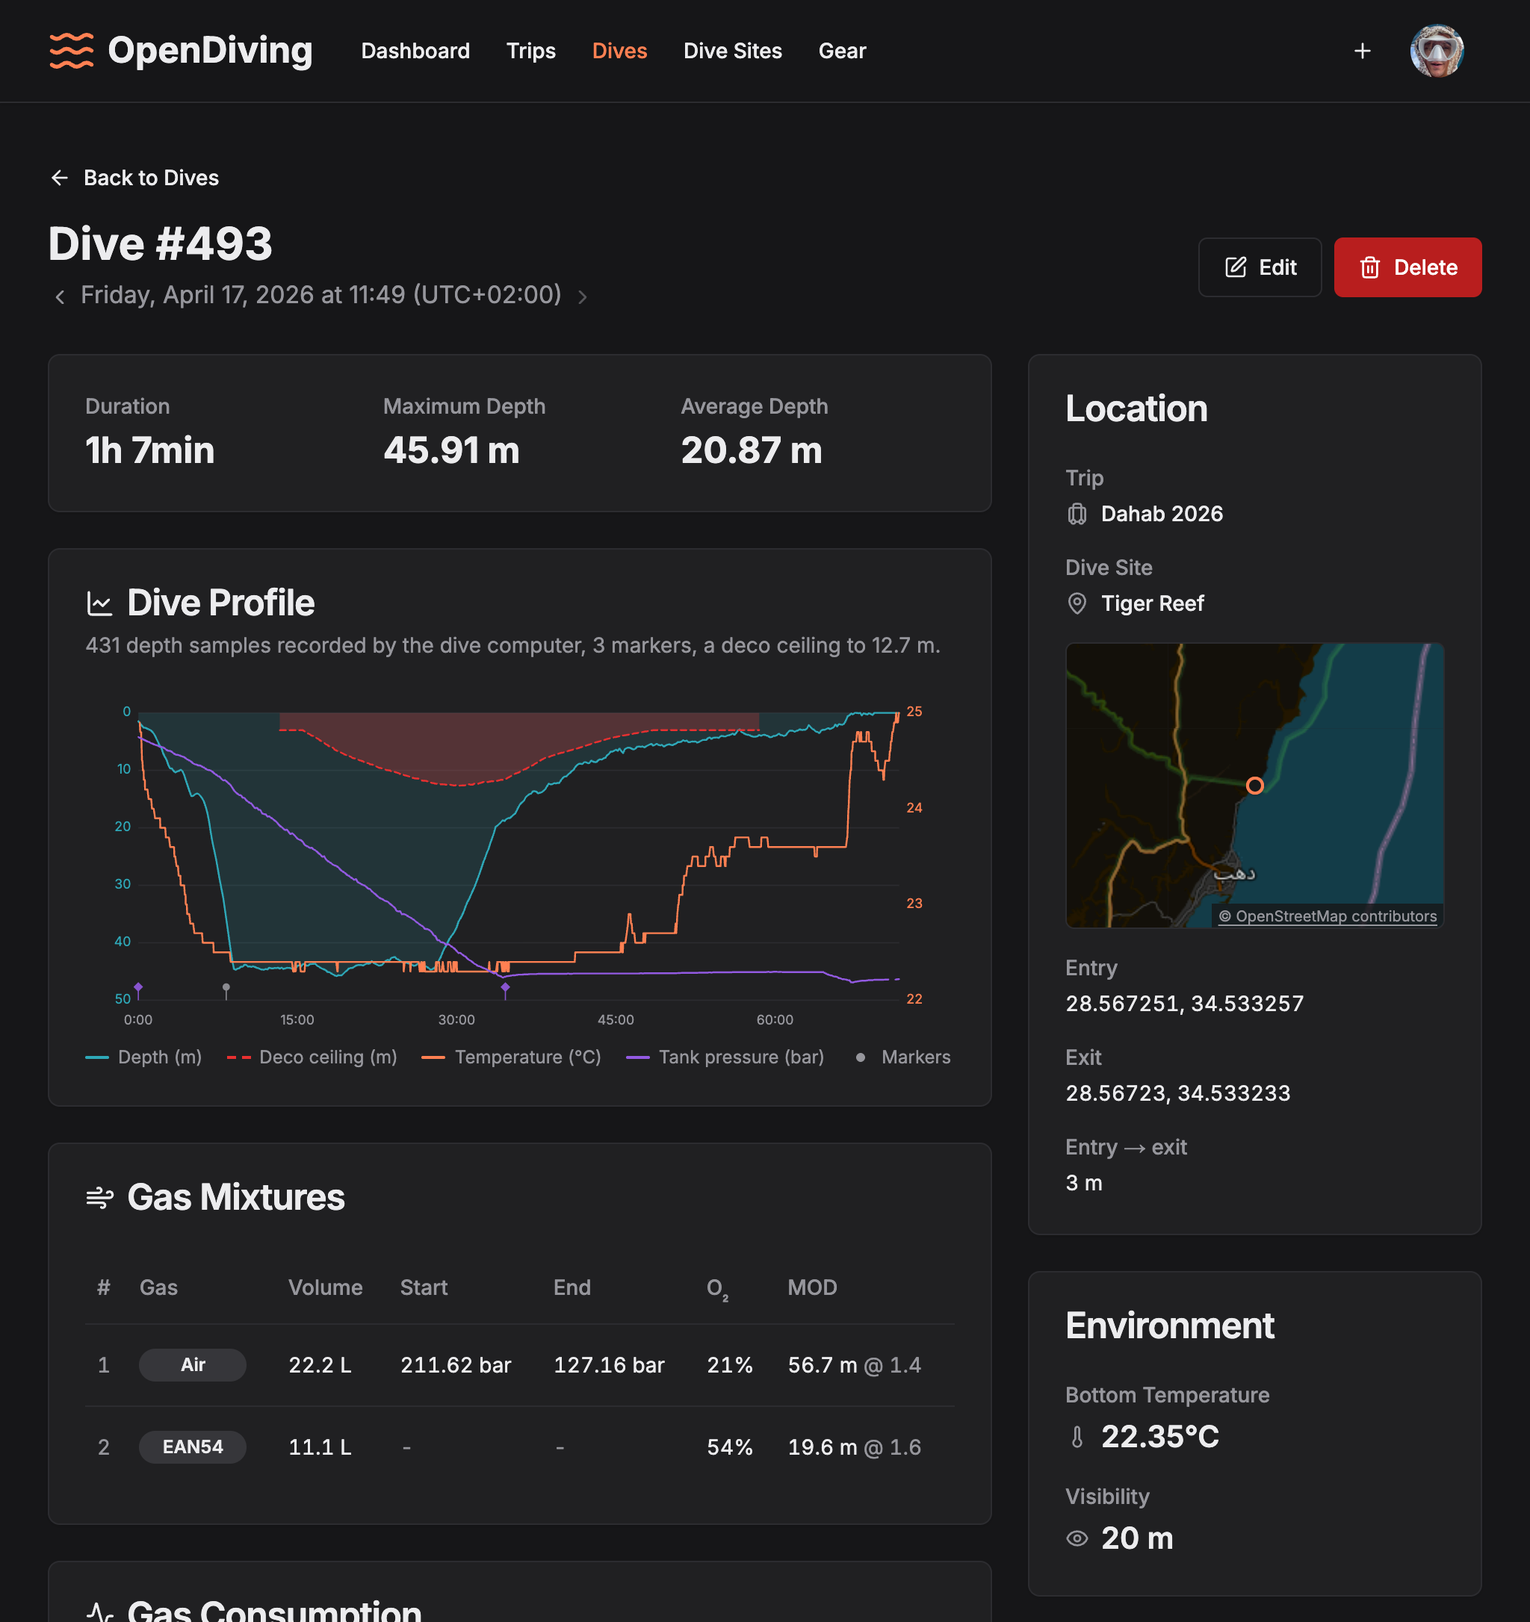
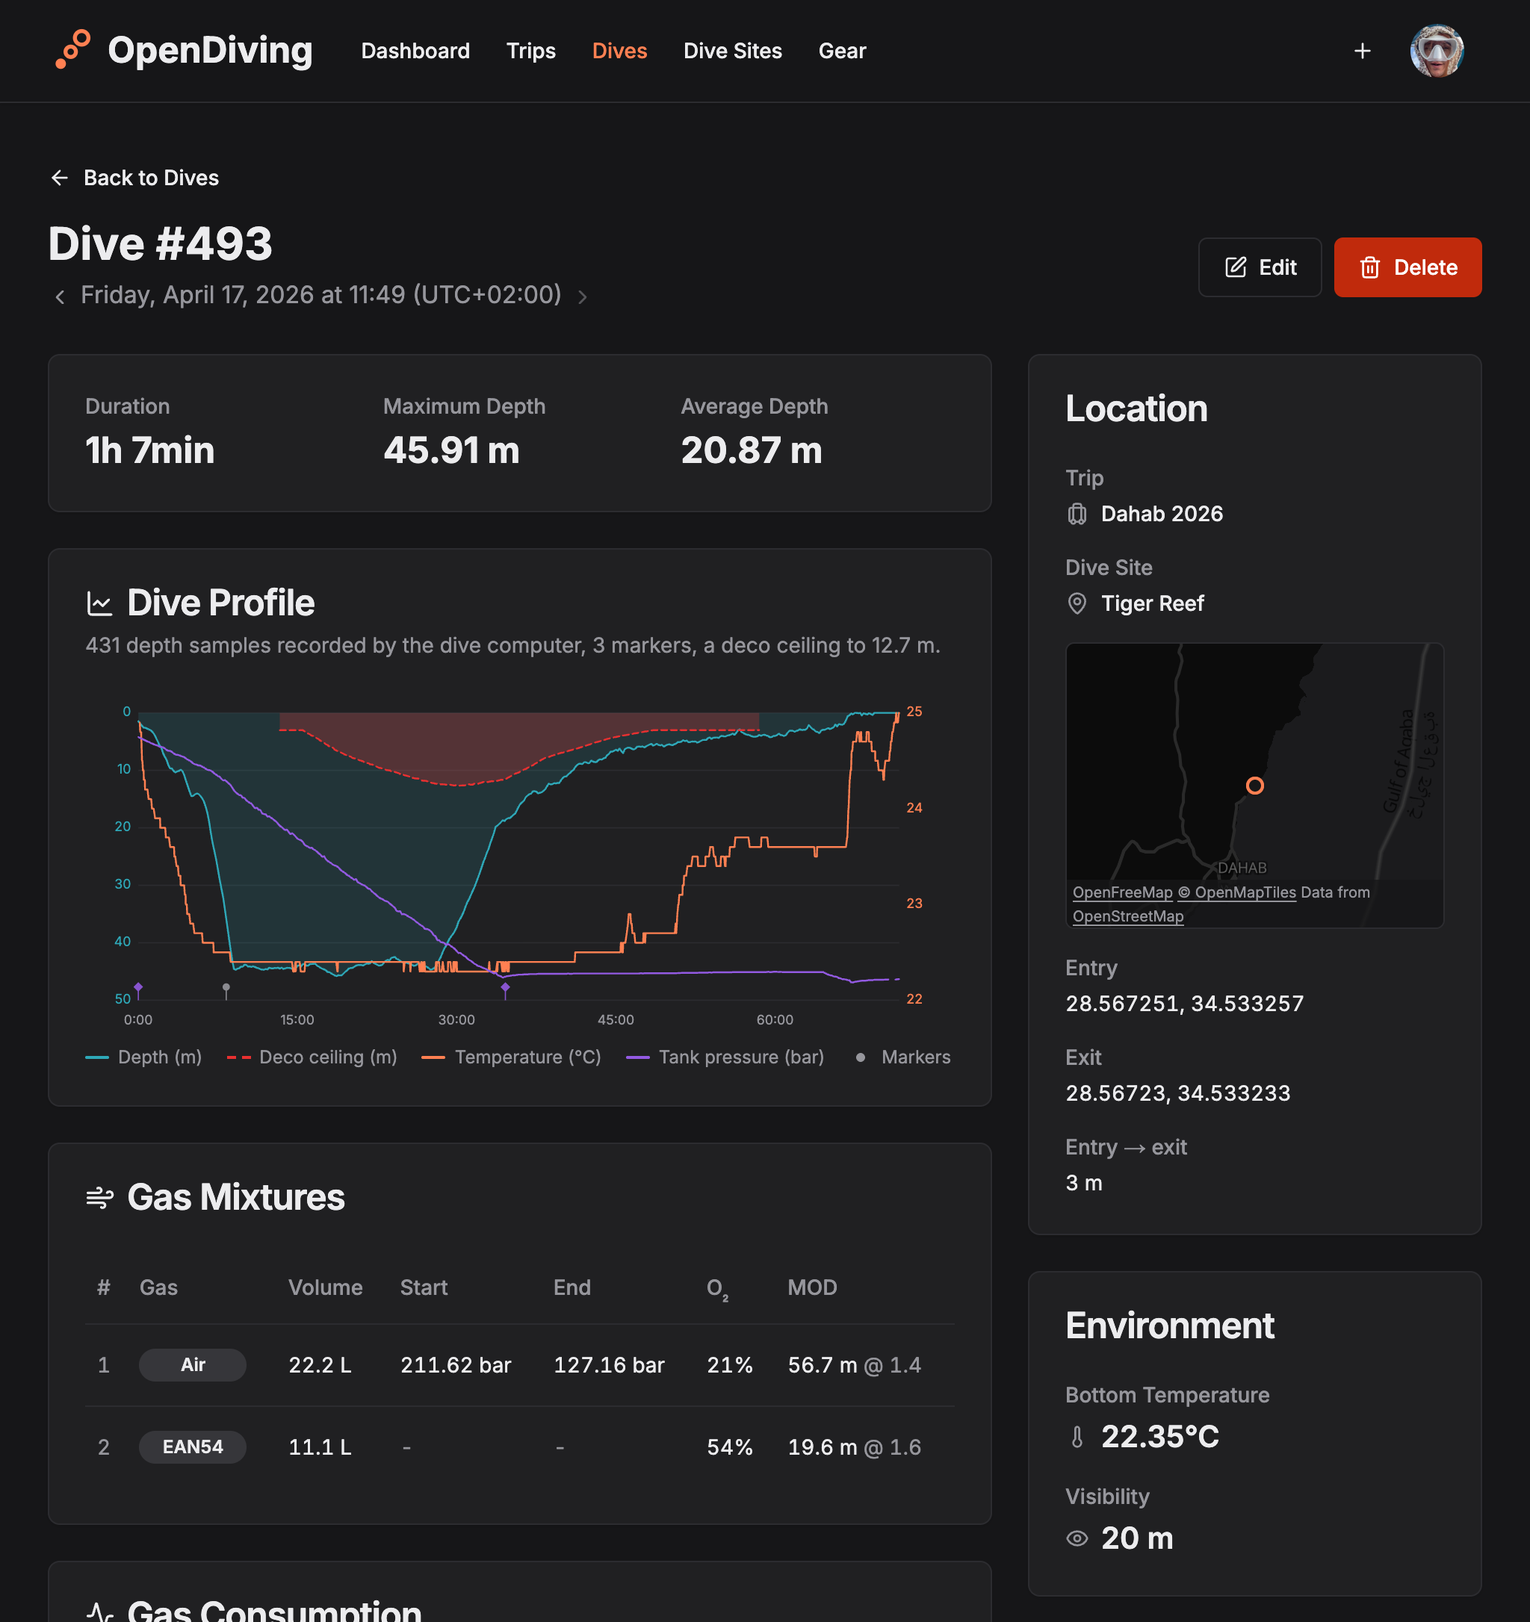
feat(brand): an original mark, and out with the licensed artwork (#148)

Changed region(s): [[0.6875, 0.3702, 0.9688, 0.5861], [0.0312, 0.0, 0.0625, 0.0617]]

diff --git a/src/components/logo.tsx b/src/components/logo.tsx
@@ -1,12 +1,24 @@
 import * as React from "react";
 
 /**
- * The OpenDiving brand mark: matches the original lucide "Waves" icon
- * exactly (same viewBox, paths, and default stroke attributes), just as
- * a self-contained SVG so it doesn't depend on the lucide-react package.
- * Drawn with `currentColor`, so it drops in anywhere an icon would (e.g.
- * `<Logo className="h-8 w-8 text-coral" />`) and follows the active
- * theme's color automatically.
+ * The OpenDiving brand mark: three bubbles rising left to right, growing as
+ * they go, the way real ones do as the pressure drops. Original artwork drawn
+ * for this project - it replaced a copy of lucide's `waves-horizontal` icon,
+ * which credited nobody and, being a stock icon a dozen other dive apps also
+ * reach for, was not a mark this project could ever have claimed as its own
+ * (see `DECISIONS.md`). Nothing here is third-party, so `NOTICE.md` has no
+ * entry for it.
+ *
+ * Drawn in the same language as the lucide icons it sits beside - 24x24 box,
+ * 2px stroke, round caps - so it reads as part of the same set. `currentColor`
+ * means it drops in anywhere an icon would (e.g.
+ * `<Logo className="h-8 w-8 text-coral" />`) and follows the active theme.
+ * The smallest bubble is filled rather than hollow. Its hole was the first
+ * thing to close up as the mark got smaller, so it read as a solid dot at
+ * favicon sizes and a ring everywhere else; filling it deliberately makes the
+ * mark the same shape at every size. The fill sits inside the stroke, so the
+ * silhouette is unchanged. `src/app/icon.svg` is the same three circles at a
+ * heavier stroke, which is what keeps that bubble crisp at 16px.
  */
 export function Logo({ className, ...props }: React.SVGProps<SVGSVGElement>) {
   return (
@@ -22,9 +34,9 @@ export function Logo({ className, ...props }: React.SVGProps<SVGSVGElement>) {
       className={className}
       {...props}
     >
-      <path d="M2 12q2.5 2 5 0t5 0 5 0 5 0" />
-      <path d="M2 19q2.5 2 5 0t5 0 5 0 5 0" />
-      <path d="M2 5q2.5 2 5 0t5 0 5 0 5 0" />
+      <circle cx="6.5" cy="18.5" r="1.6" fill="currentColor" />
+      <circle cx="11.5" cy="12.5" r="2.6" />
+      <circle cx="17" cy="5.5" r="3.4" />
     </svg>
   );
 }

diff --git a/DECISIONS.md b/DECISIONS.md
@@ -3183,9 +3183,17 @@ for everything, and no reason to special-case the hero on that axis.
 **Height is per page, and the cut lands on a card boundary rather than a round figure.** Cutting at
 the _end_ of a card matters more than the exact number, and more than the three shots agreeing: a
 frame that stops just shy of finishing a card reads as an off-by-one, while one that stops well
-inside a card the reader can see continues reads as a page that goes on. 1086 is where the dive
-page's profile chart finishes - it also clears the sidebar column beside it - and where the gear
-page's service history does.
+inside a card the reader can see continues reads as a page that goes on. 1086 clears the dive page's
+profile chart and the sidebar column beside it, and ends the gear page below its service history.
+
+**It does not, however, land on a boundary on the dive page, and that sentence used to claim it
+did.** The frame runs past the profile card and stops part-way through the glyphs of the _Gas
+Consumption_ heading below it - true on `main` as much as on any branch, and checked by decoding
+both PNGs rather than by eye. The wrong claim cost a review round: a reviewer read it, compared it
+to the image, and reported a regression that a validator then refuted, because the clipping was
+never a regression at all. The real fix, if the edge is ever worth tidying, is a `CUT_BELOW` entry
+for `dive-detail` naming the profile card - the mechanism `dashboard` already uses - and never
+another hand-measured number.
 
 **The dashboard measures its own cut, because a written-down height goes stale quietly.** It was on
 1086 too, back when consumption was its only chart and that was where the card ended. Dive activity
@@ -13085,3 +13093,144 @@ and the measurement silently described inherited colours. **A runtime probe can 
 strings copied verbatim out of the component**, and a variant-prefixed class is a different string
 from its bare form. Where the state cannot be forced — a `:hover` colour — read the generated rule
 out of the served stylesheet instead, which is also the only way to confirm a class compiled at all.
+
+## The brand mark is original now, and marketplace artwork cannot ship here
+
+`components/logo.tsx` and `app/icon.svg` used to draw lucide's `waves-horizontal` icon
+path-for-path. Two things were wrong with that, and only one of them was the licence.
+
+The licence half was straightforward. Lucide is ISC, whose single condition is that its copyright
+notice appears in copies, and the hand-copied paths were not carrying it: nothing in the tree named
+lucide outside `package.json` and `node_modules/`. That was fixable with a notice, and briefly was.
+
+**The half that mattered more is that a stock icon cannot be a mark.** It is not distinctive, so it
+is not registrable; it cannot be exclusive, because every other dive app reaching for a water icon
+lands on the same three wavy lines; and it smears at favicon size, three 2.5px strokes at 16px
+resolving to a grey blur. None of that is a licence problem and no notice fixes any of it. The mark
+is now three bubbles rising left to right, growing as they climb, drawn for this project — which
+costs a `NOTICE.md` entry, gains something ownable, and stays legible at 16px because the smallest
+bubble goes solid rather than mushy at the favicon's heavier stroke.
+
+**Marketplace artwork cannot ship in this repository, and the reason generalises past the one asset
+that proved it.** `icons/coral-reef-background.tsx` was 14 KB of reef line art on the landing hero,
+and `public/coral.png` a neon-glow rendering of the same drawing, unreferenced but still served out
+of `public/`. A third, `public/octo.png`, an octopus in the same glow treatment, landed in that same
+commit and was deleted again in `056c34c` — so it is out of the tree but still in history, and it
+belongs on any purge list the other two are on. Neither PNG was ever referenced from source:
+`git log -S` over `src/` returns nothing for either, so both were dead weight from the day they
+arrived. Both came from a paid Etsy listing whose terms permit "personal projects and small-business
+physical products" and forbid "sharing, reselling or redistributing the digital files themselves". A
+hosted web app is not a physical product, and this repository — AGPL-3.0, and public at launch —
+publishes the vector source in editable form to anyone who clones it, which is the redistribution
+the licence names. Buying it did not buy either of those. Both files are gone, and the hero renders
+without a background accent.
+
+**The screenshots are clean, and the check is worth recording so nobody repeats it.** Nine images
+had ever been committed here when this was written, across all of history: `docs/screenshots/`'s
+`dashboard.png`, `dive-detail.png` and `gear-item.png`; the two basemap sprite sheets
+`public/basemap/sprite/ofm.png` and `ofm@2x.png`; `public/coral.png` and `public/octo.png`; and the
+brand mark's own `src/app/icon.svg` and `src/app/favicon.ico`. All three screenshots are of
+authenticated pages — `scripts/screenshots.mjs` shoots dashboard, dive-detail and gear-item and
+nothing else. The reef rendered on the _landing_ hero, which no screenshot captures, and the two
+glow PNGs rendered nowhere at all. The older screenshots do carry the previous waves mark, but that
+was lucide under ISC, which permits redistribution.
+
+**Seven of those nine remain.** `coral.png` and `octo.png` went out of the history itself in the
+purge below, so a clone now reaches the three screenshots, the two basemap sprite sheets, `icon.svg`
+and `favicon.ico`, and nothing else.
+
+**Getting that list right took three tries, and each wrong answer came from the tool rather than the
+tree.** A first sweep globbed `png|jpe?g|webp|gif` and so silently dropped `favicon.ico` and
+`icon.svg` — an extension list is a completeness claim, and that one was short by two formats. A
+second counted "three basemap sprites" from a directory holding four files, only two of them images;
+the rest are JSON manifests. And `git log --all` walks `refs/stash`, so a local stash on one machine
+contributed five `docs/screenshots/*.png` that were never committed to any branch —
+`--branches --tags --remotes` is the spelling that answers "what would a clone see". A completeness
+claim inside a licensing audit is the one kind of prose here that gets relied on instead of
+re-derived, so it is worth the third try.
+
+The general rule the trio leaves behind: **artwork that arrives under someone else's terms cannot
+live in this tree at all.** Not with a notice, not with attribution, not behind a comment recording
+where it came from — the tree itself is what gets published, so anything in it is redistributed by
+definition, and a stock licence that allows use in a product almost never allows that. Two of the
+three entries left in `NOTICE.md` survive precisely because their terms do allow it: MapLibre's
+3-Clause BSD, and a trademark used under Google's own branding guidelines. The third, the
+OpenFreeMap styles, is the one still open — the vendored copies carry no licence metadata at all, so
+nobody here has read the terms they travel under, and that is worth settling before the repository
+goes public.
+
+**Provenance has to be recorded when the artwork lands, because it cannot be recovered later.** The
+reef component's docstring said "Path data unmodified from the source artwork" and named no source;
+its only commit was `feat: Authentication flow update (#6)` — then `98c72af`, a hash the purge below
+has since made unreachable; the same change is `06c19b1` on `main` today and no longer carries the
+artwork at all — which is about something else entirely. Nothing in the repository could answer
+where it came from, and the licence question was only settleable by asking the person who made the
+purchase. A file that says it came from somewhere without saying where is worse than one that says
+nothing, because it establishes the obligation while withholding what would let anyone discharge it.
+
+**`NOTICE.md` covers the tree, not the dependency graph**, and the boundary is load-bearing rather
+than lazy. Listed: artwork redrawn into source (`icons/google-icon.tsx`) and vendored build output
+and assets under `public/` (MapLibre's two `.mjs` files, the OpenFreeMap style JSON and sprite).
+Excluded: everything in `node_modules/`, which is installed rather than redistributed from here and
+ships its own licence text. A file that tried to be a full dependency inventory would be a generated
+artefact pretending to be a hand-written one, and would be wrong within a release.
+
+Two of its entries needed narrowing before they were true, and both traps are the same shape — a
+claim that reads fine until you check the code. Google's "G" is _not_ unmodified: the mark's own
+pixels are, but the pill background from the same download was dropped and the ids are namespaced
+per instance. And the basemap does not "refuse to start without an attribution" flatly —
+`lib/basemap.ts` ships `DEFAULT_BASEMAP_ATTRIBUTION` for the bundled styles and throws only when
+`MAP_STYLE_URL` is set without `MAP_ATTRIBUTION`. An attribution file that overstates its own
+accuracy is worse than none.
+
+**The image had to be taught to carry the notices.** The runner stage copies `public/` and the two
+`.next/` directories and nothing else, so `LICENSE` never reached it either — an operator who only
+ever pulls the image received the software with no notice attached, which is the case AGPL-3.0 §4
+and 3-Clause BSD are both written about. One `COPY --from=builder` in the runner stage fixes both.
+
+## The licensed artwork came out of the history, and the history paid for it
+
+On 2026-09-02 the three purchased files above were removed from every commit with
+`git filter-repo --invert-paths`, and `main` was force-pushed. Deleting them from the tip had
+settled nothing: publishing the repository publishes its history, so `git log -p` or a checkout of
+the commit that added them still handed anyone the vector source. That is the redistribution the
+licence forbids, and the tip-only deletion only made it less obvious.
+
+They entered in one commit and were never modified after: 1.4 MB of `coral.png`, 1.4 MB of
+`octo.png`, and 14 KB of `coral-reef-background.tsx`, all in the squash-merge of `#6`. No sibling
+repository carried them. That made the surgery narrow - three paths, one commit - but the commit
+sits fifth of 138, so every hash after it moved.
+
+**Three rewrites happened where one was planned, and the extra two paid for something nobody
+costed.** A GPG signature covers the commit object, so rewriting a commit destroys its signature and
+no tool can carry one across. Every commit on `main` had been signed by GitHub's own key at
+squash-merge, reporting `E` - signed, unverifiable locally - which is exactly what
+`.githooks/pre-push` is written to allow. After the purge all 138 reported `N`, and the hook refused
+the push it exists to refuse.
+
+Re-signing them locally was the second pass, and it made the display _worse_: the commits were then
+signed with the maintainer's key while their committer was still `GitHub <noreply@github.com>`, and
+GitHub verifies a signature against the committer's identity. It returned `unknown_key`, which
+renders as an Unverified badge - louder than the absence of a badge an unsigned commit gets. The
+third pass set committer to author before re-signing. Every commit is authored by the same person
+and always has been, so committer-equals-author is true here rather than convenient, and all 230
+commits across every branch now verify.
+
+**What is permanently gone is GitHub's attestation**, not the history. Those signatures said GitHub
+performed those merges; only GitHub can make them, and they cannot be reconstructed. `main` is now
+signed by the maintainer instead. New PRs squash-merge and are GitHub-signed again as normal, so
+only the past is affected.
+
+**The purge broke `main`, and the branch that motivated it was the fix.** Removing a path from every
+commit leaves the commits that legitimately used it importing a module that no longer exists:
+`landing-page.tsx` on `main` still imported `coral-reef-background`, and `main` stopped compiling
+the moment it was pushed. Nothing caught it because the branch doing the removal had already dropped
+that import, so its CI stayed green while `main`'s went red. **After rewriting history, type-check
+the branches you did not rewrite it on.**
+
+**A bundle of all 28 pre-purge refs was taken before any of it** and is the only complete copy of
+the original history - `refs/original/*` is not, having been overwritten by the re-signing passes.
+It also contains the licensed artwork, so it is evidence with a shelf life rather than an archive to
+keep. GitHub keeps unreachable objects fetchable by hash until it garbage-collects on its own
+schedule; asking Support to run `gc` is what finally closes this, and until that happens the purge
+is complete locally and merely mostly complete upstream.

diff --git a/NOTICE.md b/NOTICE.md
@@ -1,0 +1,59 @@
+# Third-Party Notices
+
+OpenDiving Web is licensed under AGPL-3.0 (see `LICENSE`). This file covers third-party material
+that is copied into this repository's own tree — artwork redrawn by hand into source files, and
+vendored assets under `public/` — plus one entry, MapLibre's worker, that is generated into
+`public/` at build time and ships in the image rather than in the tree.
+
+It is deliberately not an inventory of the npm dependency graph. Those packages are installed, not
+redistributed from here, and each carries its own license text inside `node_modules/` — and inside
+the bundle, for the ones whose code reaches the browser.
+
+The brand mark is not listed because it is not third-party: `src/components/logo.tsx` and
+`src/app/icon.svg` are original artwork for this project. See `DECISIONS.md` for why the mark
+stopped being a copied icon, and for the standing rule about marketplace artwork that the same pass
+produced.
+
+## Google
+
+<https://developers.google.com/identity/branding-guidelines>
+
+`src/components/icons/google-icon.tsx` contains Google's "standard color gradient super G logo",
+extracted from Google's own pre-approved Sign in with Google brand icon download. The mark's own
+pixels — path data, gradient stops and blur layers — are unmodified; the pill-shaped button
+background that shipped alongside it in that download was dropped, since the mark renders inside the
+app's own button.
+
+This is a trademark used under Google's branding guidelines, not material under an open-source
+license. It carries no permission to use it for anything other than identifying Google's sign-in
+service, and a fork that drops Google sign-in should drop the mark with it.
+
+## MapLibre GL JS
+
+<https://github.com/maplibre/maplibre-gl-js>
+
+`public/maplibre/maplibre-gl-shared.mjs` and `public/maplibre/maplibre-gl-worker.mjs` are build
+output from `maplibre-gl`, licensed under the 3-Clause BSD License. Both files carry the upstream
+license header, which names the exact version and links its full text.
+
+They are the one entry here that is _not_ in the tree: `/public/maplibre/` is gitignored, and
+`scripts/copy-maplibre-worker.mjs` copies both files out of `node_modules` at `predev`, `prebuild`
+and `pretest`. A clone contains neither. They are listed because they reach the published image and
+the browser bundle, which is where a notice has to travel — but a reader looking for them in a fresh
+checkout will not find them.
+
+## OpenFreeMap basemap styles
+
+<https://openfreemap.org>
+
+`public/basemap/liberty.json`, `public/basemap/dark.json` and the shared sprite set under
+`public/basemap/sprite/` are OpenFreeMap's Liberty and Dark styles, vendored so the map's appearance
+cannot change under the app after an upstream restyle (see `DECISIONS.md`). The vendored copies
+carry no licence metadata of their own — these styles are used on OpenFreeMap's terms, at the link
+above.
+
+These are style definitions, not map data. Credit for the data the styles draw — OpenFreeMap,
+OpenMapTiles and OpenStreetMap — is rendered on the map at runtime: `lib/basemap.ts` ships that
+credit as the default, and an operator who points `MAP_STYLE_URL` at a style of their own must set
+`MAP_ATTRIBUTION` to match it, which the app enforces by throwing rather than crediting the wrong
+project.

diff --git a/README.md b/README.md
@@ -204,3 +204,7 @@ made. Security problems go through [SECURITY.md](SECURITY.md) rather than the is
 [AGPL-3.0](LICENSE). In short: run it, change it, self-host it freely — but if you offer a modified
 version as a service, you share your changes. Nobody gets to take this closed-source and lock
 divers' data away.
+
+Third-party artwork and vendored assets that travel in this tree — Google's sign-in mark, the
+MapLibre build, the OpenFreeMap styles — are credited in [NOTICE.md](NOTICE.md). The brand mark
+isn't among them: it's original to this project.
